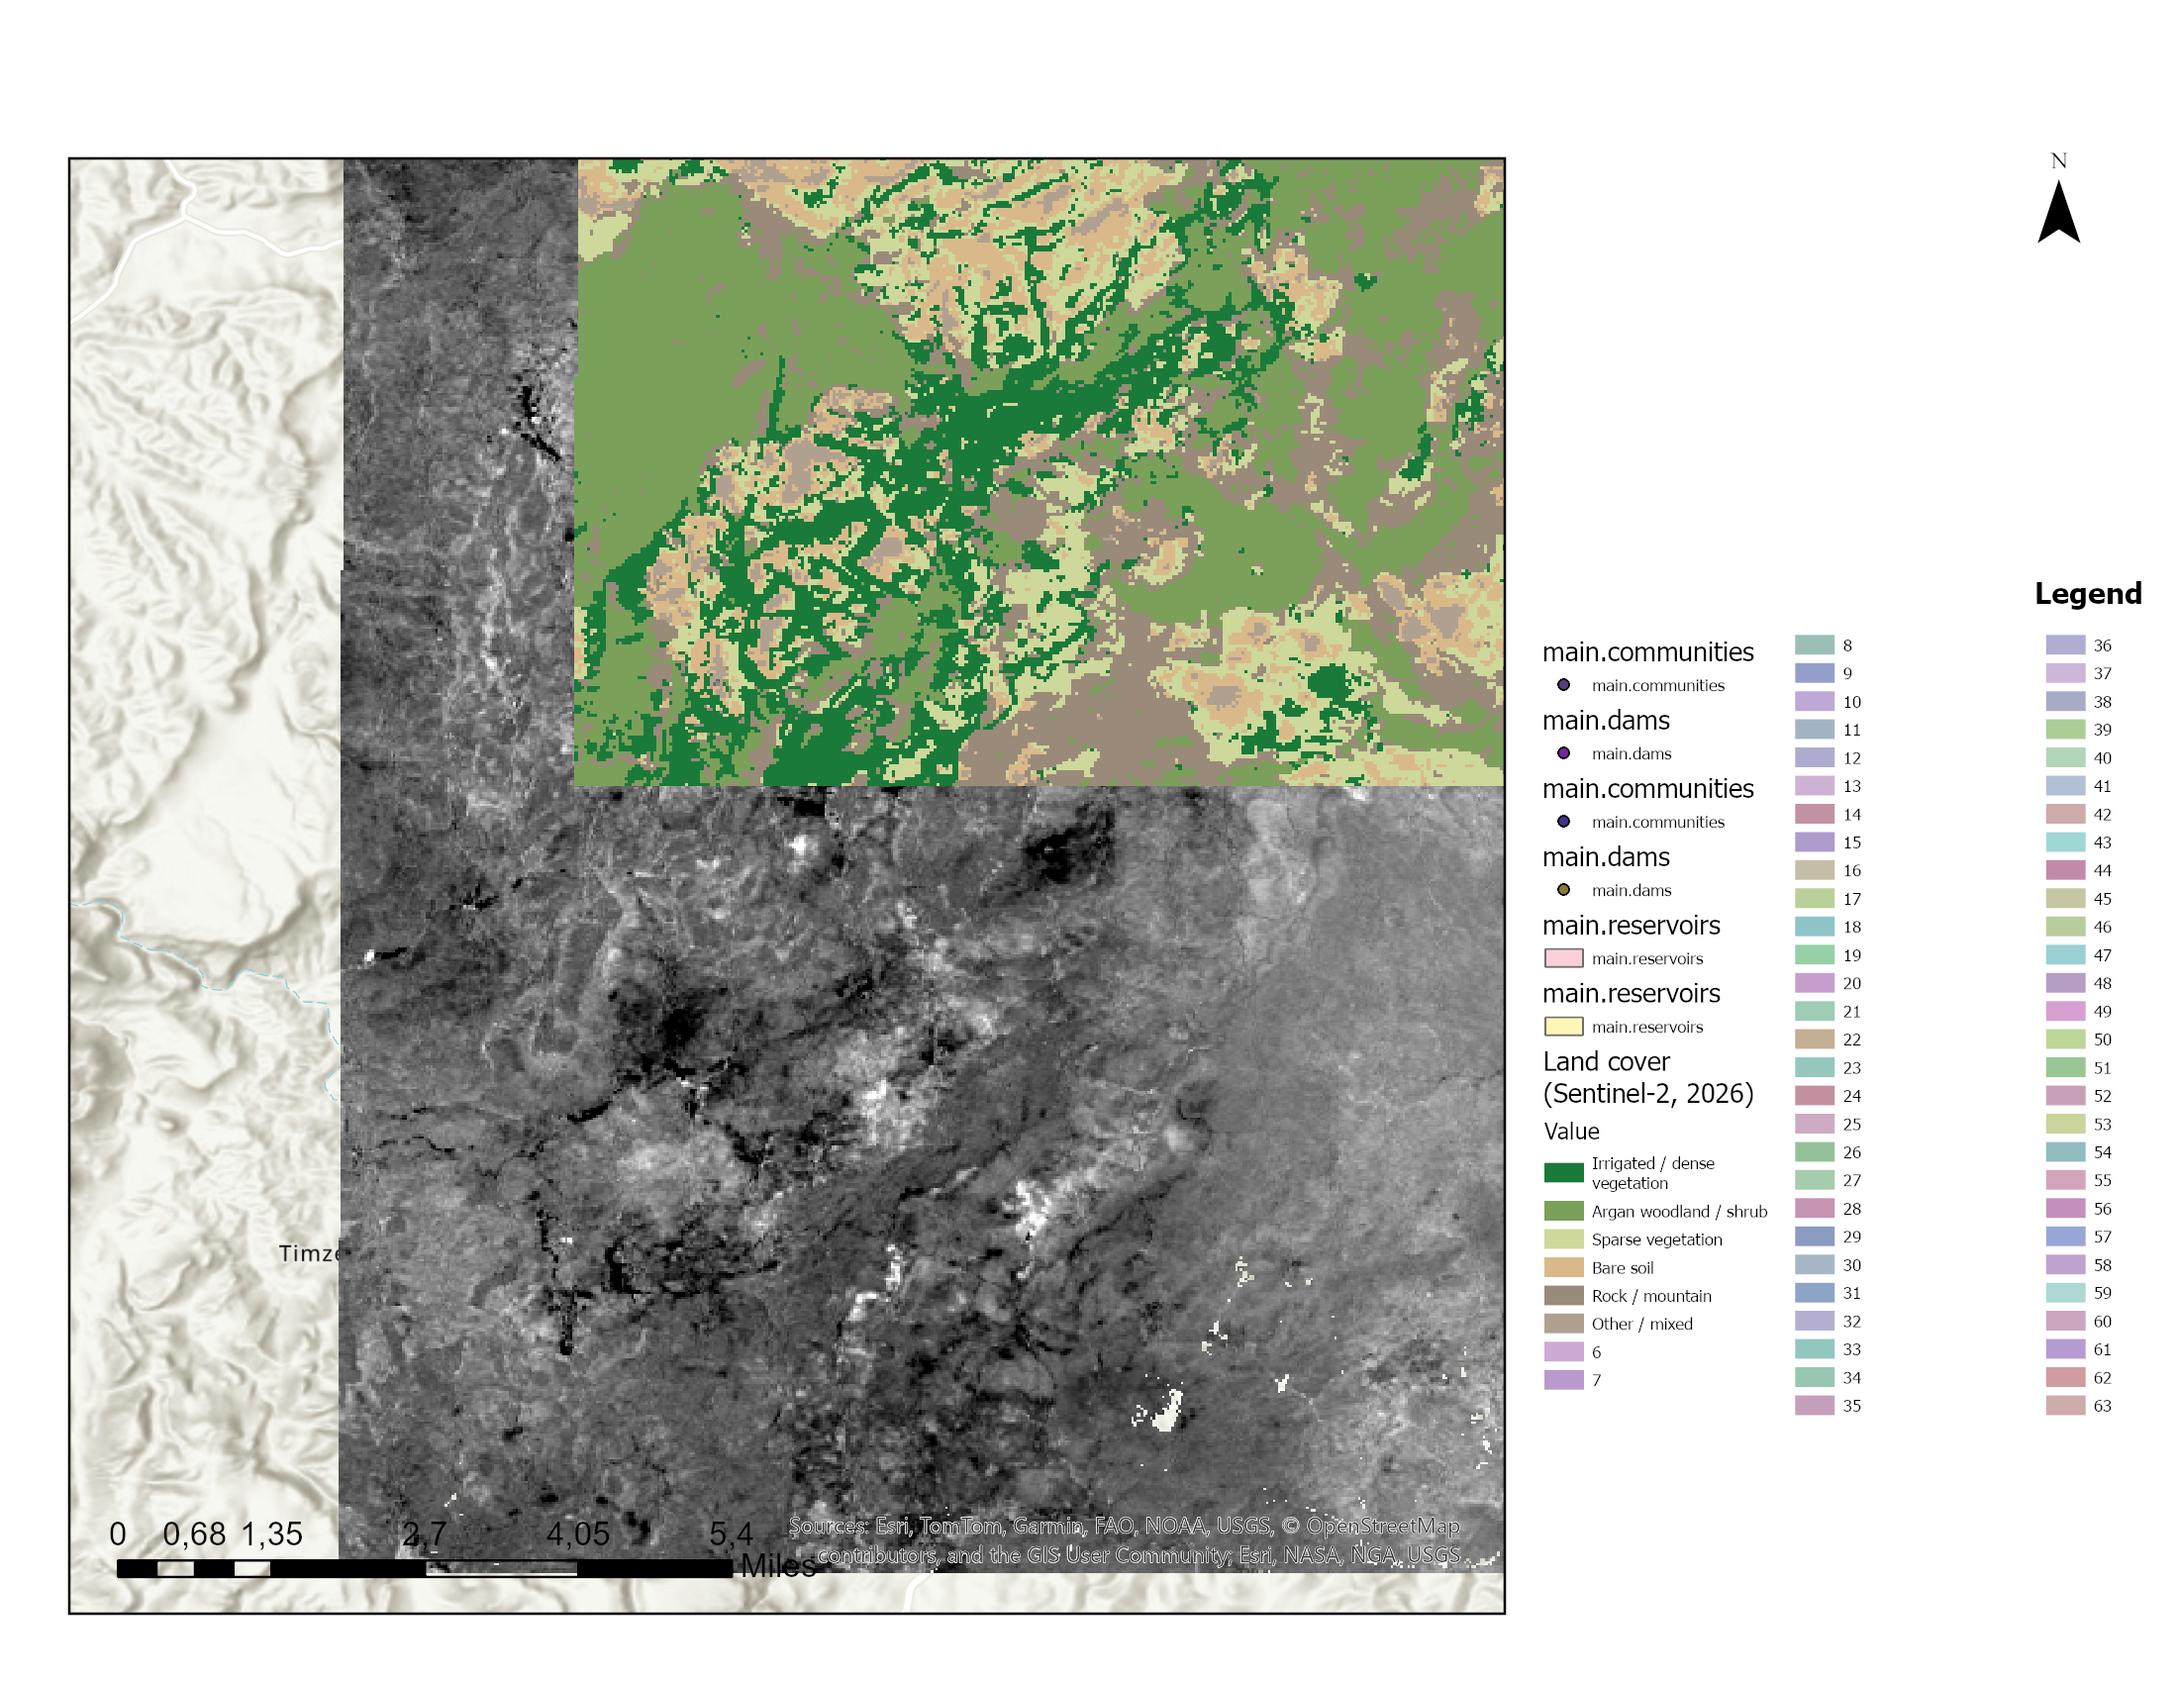
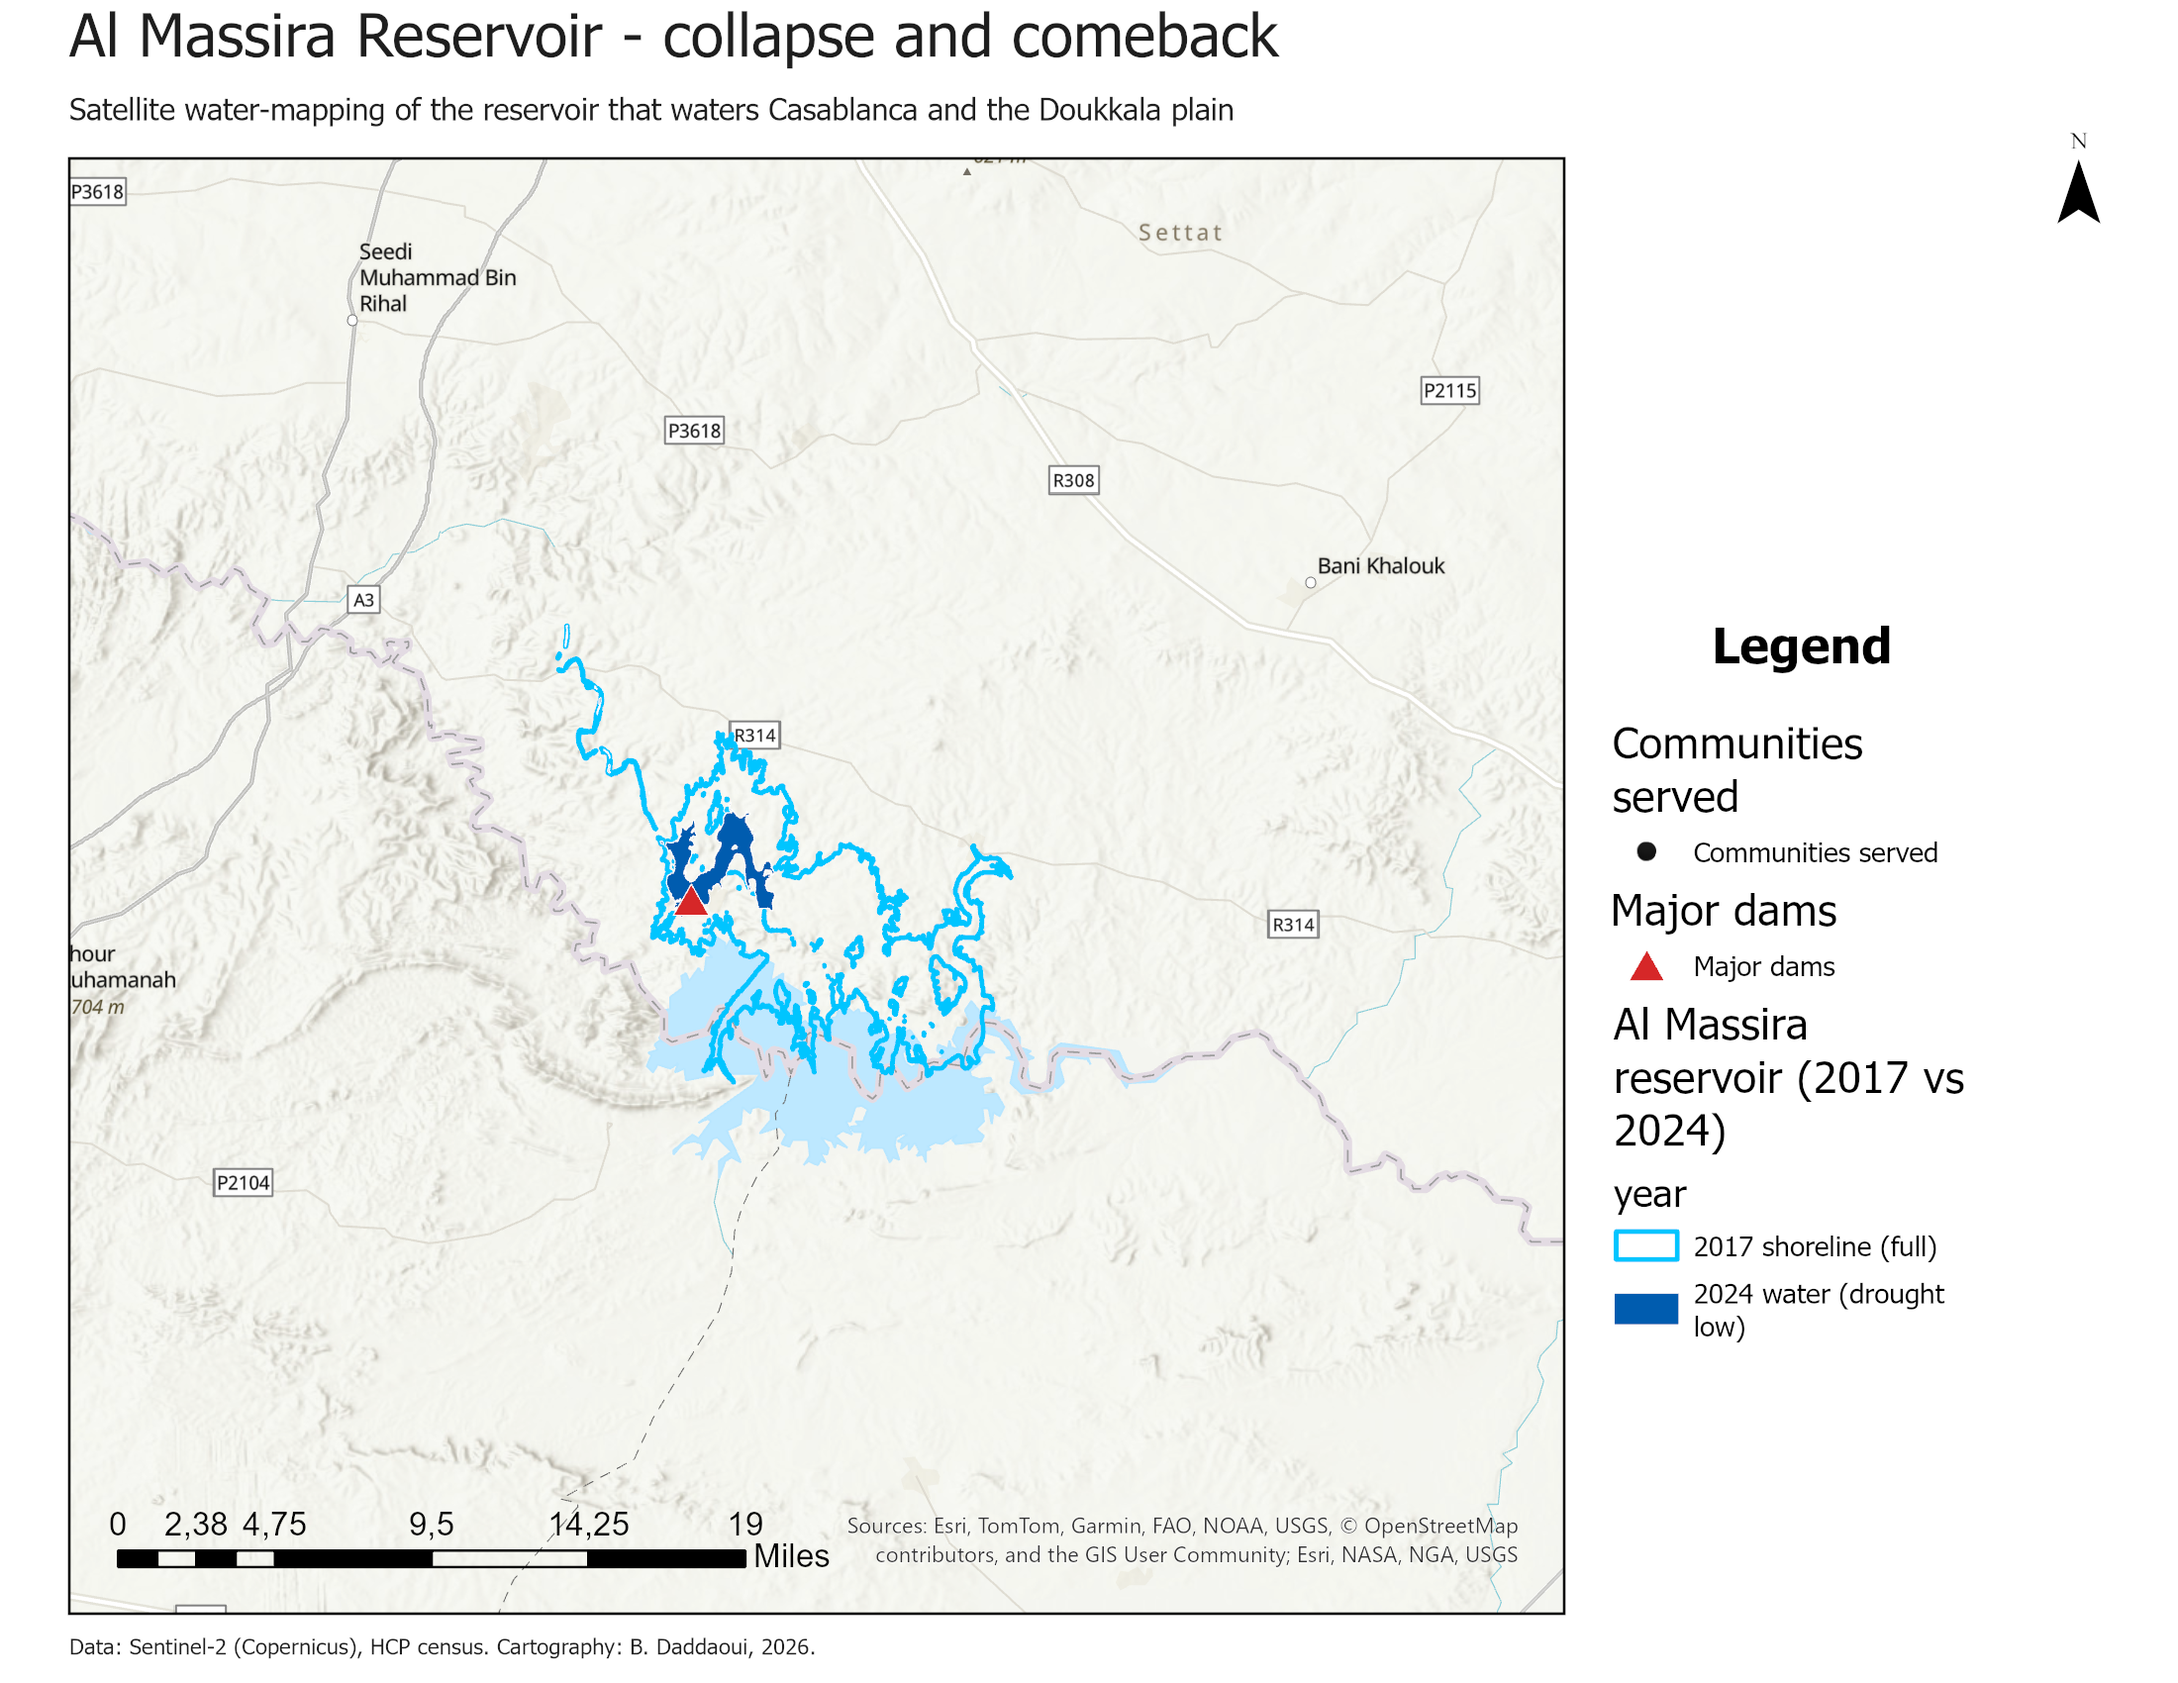
fix arcgis layout

diff --git a/arcgis/style_and_layout.py b/arcgis/style_and_layout.py
@@ -1,13 +1,17 @@
 """
 style_and_layout.py  (run inside ArcGIS Pro's Python window / Notebook)
-Complete, presentation-quality cartography for the Morocco_Water map:
-  - real layer names (not file names)
-  - aesthetic symbology (no default squares)
-  - a fully labelled land-cover legend (named classes, not "Value 0,1,2...")
-  - reservoir shown as 2017 shoreline vs 2024 water
-  - a finished layout: title, subtitle, legend, scale bar, north arrow, credits
+Presentation-quality ArcGIS Pro cartography for the Al Massira reservoir map.
 
-Every step is independent (try/except) so partial success is fine. Run with:
+Robust against the map having been built more than once:
+  - de-duplicates layers (same name loaded twice)
+  - styles reservoir (2017 shoreline vs 2024 water), dams, communities
+  - hides the Souss/argan rasters (NDVI change, land cover) - they have their own
+    maps and do not belong on an Al Massira basin layout
+  - zooms the layout to the reservoir (with a margin), reliably
+  - builds a CLEAN 3-item legend (no runaway raster value list, no duplicates)
+  - finished layout: title, subtitle, legend, scale bar, north arrow, credits
+
+Run with:
   exec(open(r"C:\\Users\\BOUCHRA\\Projects\\morocco-water-stress\\arcgis\\style_and_layout.py").read())
 """
 import os
@@ -19,37 +23,51 @@ OUT_PNG = os.path.join(REPO, "figures", "arcgis_al_massira_layout.png")
 aprx = arcpy.mp.ArcGISProject("CURRENT")
 m = aprx.activeMap or aprx.listMaps()[0]
 
-# land-cover classes: raster Value -> (label, RGB)   (order from classify_landcover.py)
-LC = {0: ("Irrigated / dense vegetation", [26, 122, 58]),
-      1: ("Argan woodland / shrub", [123, 160, 90]),
-      2: ("Sparse vegetation", [205, 216, 154]),
-      3: ("Bare soil", [217, 185, 138]),
-      4: ("Rock / mountain", [154, 138, 122]),
-      5: ("Other / mixed", [176, 160, 144])}
+
+# ---------------- 0. de-duplicate layers by data source (build ran twice) ----------------
+seen = set()
+for l in list(m.listLayers()):
+    try:
+        if not (l.isFeatureLayer or l.isRasterLayer):
+            continue
+        try:
+            key = l.dataSource
+        except Exception:
+            key = l.name
+        if key in seen:
+            m.removeLayer(l)
+            print("removed duplicate:", key)
+        else:
+            seen.add(key)
+    except Exception as e:
+        print("dedup skip:", e)
 
 
 def get(key):
-    # match the key anywhere in the layer name (handles "main.reservoirs", renamed layers)
     for l in m.listLayers():
-        if key in l.name.lower():
-            return l
+        try:
+            if key in l.name.lower():
+                return l
+        except Exception:
+            pass
     return None
 
 
-def first_ramp(names):
-    for n in names:
-        r = aprx.listColorRamps(n)
-        if r:
-            return r[0]
-    return None
+res, dams, comm = get("reservoir"), get("dam"), get("communit")
+ndvi, landc = get("ndvi"), get("landcover") or get("land cover") or get("land_cover")
 
 
-# grab references up front (so renaming later doesn't break lookups)
-res, dams, comm = get("reservoirs"), get("dams"), get("communities")
-ndvi, landc = get("ndvi_change"), get("landcover")
+# ---------------- 1. hide the south-region rasters on this layout ----------------
+for lyr in (ndvi, landc):
+    if lyr:
+        try:
+            lyr.visible = False
+            print("hidden on layout:", lyr.name)
+        except Exception as e:
+            print("hide skip:", e)
 
 
-# ---------------- points: fix squares -> clean markers ----------------
+# ---------------- 2. points: clean markers (no default squares) ----------------
 def style_points(l, gallery, rgb, size):
     if not l:
         return
@@ -57,8 +75,8 @@ def style_points(l, gallery, rgb, size):
         sym = l.symbology
         try:
             sym.renderer.symbol.applySymbolFromGallery(gallery)
-        except Exception as e:
-            print("  gallery skipped:", e)
+        except Exception:
+            pass
         sym.renderer.symbol.color = {"RGB": rgb}
         sym.renderer.symbol.size = size
         try:
@@ -72,11 +90,11 @@ def style_points(l, gallery, rgb, size):
         print("point style error:", e)
 
 
-style_points(comm, "Circle 3", [30, 30, 30, 100], 8)
+style_points(comm, "Circle 3", [30, 30, 30, 100], 7)
 style_points(dams, "Triangle 3", [214, 39, 40, 100], 13)
 
 
-# ---------------- reservoir: 2017 shoreline vs 2024 water ----------------
+# ---------------- 3. reservoir: 2017 shoreline vs 2024 water ----------------
 if res:
     try:
         sym = res.symbology
@@ -88,7 +106,7 @@ if res:
                 if yr == "2017":
                     itm.symbol.color = {"RGB": [0, 0, 0, 0]}
                     itm.symbol.outlineColor = {"RGB": [0, 197, 255, 100]}
-                    itm.symbol.outlineWidth = 1.6
+                    itm.symbol.outlineWidth = 1.8
                     itm.label = "2017 shoreline (full)"
                 else:
                     itm.symbol.color = {"RGB": [0, 92, 175, 100]}
@@ -101,96 +119,81 @@ if res:
         print("reservoir style error:", e)
 
 
-# ---------------- NDVI change raster ----------------
-if ndvi:
-    try:
-        sym = ndvi.symbology
-        if sym.colorizer.type != "RasterStretchColorizer":
-            sym.updateColorizer("RasterStretchColorizer")
-        sym.colorizer.stretchType = "PercentClip"
-        ramp = first_ramp(["Brown to Green (Continuous)", "Green-Brown (Continuous)",
-                           "Red-Green (Continuous)"])
-        if ramp:
-            sym.colorizer.colorRamp = ramp
-        ndvi.symbology = sym
-        print("styled NDVI change raster")
-    except Exception as e:
-        print("ndvi raster error:", e)
-
-
-# ---------------- land cover: named classes + colours ----------------
-if landc:
-    try:
-        sym = landc.symbology
-        if sym.colorizer.type != "RasterUniqueValueColorizer":
-            sym.updateColorizer("RasterUniqueValueColorizer")
-        sym.colorizer.field = "Value"
-        for grp in sym.colorizer.groups:
-            for itm in grp.items:
-                try:
-                    v = int(float(itm.values[0]))
-                except Exception:
-                    continue
-                if v in LC:
-                    itm.label = LC[v][0]
-                    itm.color = {"RGB": LC[v][1] + [100]}
-        landc.symbology = sym
-        print("styled land cover (named classes)")
-    except Exception as e:
-        print("landcover raster error:", e)
-
-
-# ---------------- real layer names (do this last) ----------------
+# ---------------- 4. real layer names ----------------
 for lyr, name in [(res, "Al Massira reservoir (2017 vs 2024)"),
-                  (dams, "Major dams"),
-                  (comm, "Communities served"),
-                  (ndvi, "Vegetation change 2018\u20132026 (NDVI)"),
-                  (landc, "Land cover (Sentinel-2, 2026)")]:
+                  (dams, "Major dams"), (comm, "Communities served")]:
     if lyr:
         try:
             lyr.name = name
         except Exception as e:
-            print("rename skipped:", e)
+            print("rename skip:", e)
 print("renamed layers")
 
 
-# ---------------- zoom to the reservoir ----------------
-try:
-    view = aprx.activeView
-    if res and view and hasattr(view, "camera"):
-        view.camera.setExtent(view.getLayerExtent(res, False, True))
-        print("zoomed to reservoir")
-except Exception as e:
-    print("zoom skipped:", e)
-
-
-# ---------------- finished layout ----------------
+# ---------------- 5. finished layout ----------------
 try:
     for old in aprx.listLayouts("Al Massira*"):
         aprx.deleteItem(old)
 except Exception:
     pass
+
 try:
     lyt = aprx.createLayout(11, 8.5, "INCH", "Al Massira Layout")
     mf = lyt.createMapFrame(
         arcpy.Polygon(arcpy.Array([arcpy.Point(0.35, 0.35), arcpy.Point(0.35, 7.7),
-                                   arcpy.Point(7.6, 7.7), arcpy.Point(7.6, 0.35)])), m, "MainMap")
-    if res:
-        mf.camera.setExtent(mf.getLayerExtent(res, False, True))
+                                   arcpy.Point(7.9, 7.7), arcpy.Point(7.9, 0.35)])), m, "MainMap")
+
+    # ---- reliable zoom: set camera centre + scale in the map's own SR ----
+    def zoom_to_reservoir():
+        try:
+            sr = mf.map.spatialReference
+            code = sr.factoryCode
+            print("  map SR:", code, sr.name)
+            if code in (3857, 102100):                 # Web Mercator
+                cx, cy = -842700.0, 3841000.0          # Al Massira centre
+            elif code == 4326:                         # WGS84 degrees
+                cx, cy = -7.57, 32.53
+            else:                                      # anything else: project a point
+                pg = arcpy.PointGeometry(arcpy.Point(-7.57, 32.53),
+                                         arcpy.SpatialReference(4326)).projectAs(sr)
+                cx, cy = pg.centroid.X, pg.centroid.Y
+            mf.camera.X = cx
+            mf.camera.Y = cy
+            mf.camera.scale = 380000                   # ~65 km wide on this frame
+            print("  camera centre", round(cx, 1), round(cy, 1), "scale 380000")
+        except Exception as e:
+            print("  zoom failed:", e)
+
+    zoom_to_reservoir()
 
     def surround(kind, pt, cat, name):
         try:
             items = aprx.listStyleItems("ArcGIS 2D", cat)
-            lyt.createMapSurroundElement(pt, kind, mf, items[0] if items else None, name)
-            print("  added", name)
+            return lyt.createMapSurroundElement(pt, kind, mf, items[0] if items else None, name)
         except Exception as e:
             print("  ", kind, "skipped:", e)
+            return None
 
-    surround("LEGEND", arcpy.Point(7.8, 5.6), "LEGEND", "Legend")
-    surround("SCALE_BAR", arcpy.Point(0.55, 0.5), "Scale_bar", "Scale Bar")
-    surround("NORTH_ARROW", arcpy.Point(10.4, 7.5), "North_Arrow", "North Arrow")
+    leg = surround("LEGEND", arcpy.Point(8.15, 5.4), "LEGEND", "Legend")
+    surround("SCALE_BAR", arcpy.Point(0.55, 0.55), "Scale_bar", "Scale Bar")
+    surround("NORTH_ARROW", arcpy.Point(10.5, 7.6), "North_Arrow", "North Arrow")
 
-    # title / subtitle / credits via CIM (works without createTextElement)
+    # ---- CLEAN legend: keep only the 3 vector layers, drop rasters/basemap/dupes ----
+    if leg:
+        try:
+            keep = ("reservoir", "dam", "communit")
+            cim = leg.getDefinition("V3")
+            cim.items = [it for it in cim.items if any(k in it.name.lower() for k in keep)]
+            try:
+                cim.fittingStrategy = "AdjustFrame"
+            except Exception:
+                pass
+            leg.setDefinition(cim)
+            print("cleaned legend ->", [i.name for i in cim.items])
+        except Exception as e:
+            print("  legend clean skipped:", e)
+
+    # ---- title / subtitle / credits via CIM (no createTextElement dependency) ----
     try:
         def _txt(s, x, y, h):
             return {"type": "CIMGraphicElement", "name": s[:24], "anchor": "BottomLeftCorner",
@@ -201,9 +204,9 @@ try:
                                         {"type": "CIMSolidFill", "enable": True,
                                          "color": {"type": "CIMRGBColor", "values": [30, 30, 30, 100]}}]}}}}}
         cim = lyt.getDefinition("V3")
-        cim.elements.append(_txt("Al Massira Reservoir & the Oum Er-Rbia Basin", 0.35, 8.15, 22))
-        cim.elements.append(_txt("Satellite water-mapping, land cover, and the communities that depend on it", 0.35, 7.88, 12))
-        cim.elements.append(_txt("Data: Sentinel-2 (Copernicus), Copernicus DEM, HCP census. Cartography: B. Daddaoui, 2026.", 0.35, 0.15, 8))
+        cim.elements.append(_txt("Al Massira Reservoir - collapse and comeback", 0.35, 8.15, 22))
+        cim.elements.append(_txt("Satellite water-mapping of the reservoir that waters Casablanca and the Doukkala plain", 0.35, 7.86, 11))
+        cim.elements.append(_txt("Data: Sentinel-2 (Copernicus), HCP census. Cartography: B. Daddaoui, 2026.", 0.35, 0.12, 8))
         lyt.setDefinition(cim)
         print("added title / subtitle / credits")
     except Exception as e:
